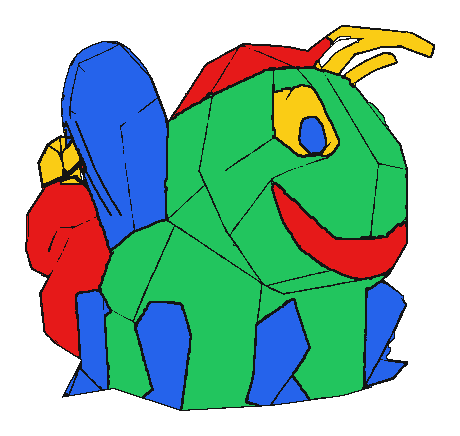
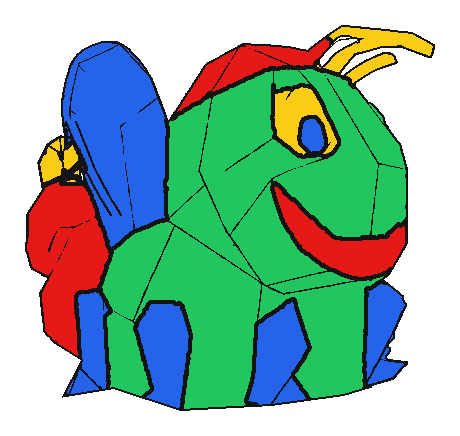
style: double thickness of outer silhouette and color boundary outlines on Lightning Bug

diff --git a/simulator/app.js b/simulator/app.js
@@ -235,7 +235,7 @@ lightningBugImg.onload = () => {
     lightningBugLoaded = true;
     notifyFloatImgLoaded();
 };
-lightningBugImg.src = 'assets/lightning_bug.png?v=20261104_tailtip_outlines';
+lightningBugImg.src = 'assets/lightning_bug.png?v=20261104_2x_thick_outlines';
 
 const lightningBugTransparentImg = new Image();
 let lightningBugTransparentLoaded = false;
@@ -243,7 +243,7 @@ lightningBugTransparentImg.onload = () => {
     lightningBugTransparentLoaded = true;
     notifyFloatImgLoaded();
 };
-lightningBugTransparentImg.src = 'assets/lightningbug_transparent.png?v=20261104_tailtip_outlines';
+lightningBugTransparentImg.src = 'assets/lightningbug_transparent.png?v=20261104_2x_thick_outlines';
 
 // Custom artwork image (if user uploads one or loads one from preset)
 let customArtworkImg = null;

diff --git a/scripts/lb_paint_facets.py b/scripts/lb_paint_facets.py
@@ -110,7 +110,7 @@ vis_c = np.zeros_like(f9, dtype=np.uint8)
 cv2.drawContours(vis_c, cnts, -1, 1, 1)
 line_extra = vis_c.astype(bool) & border_9
 
-# Draw solid, black, easy to see outlines around the whole bug and between colors:
+# Draw solid, black, easy to see outlines around the whole bug and between colors (2x thick):
 # Map each pixel to its primary color (Green=2, Blue=3, Red=4, Yellow=5)
 color_field = np.zeros((h, w), dtype=np.uint8)
 color_field[(out[:, :, 0] == GREEN[0]) & (out[:, :, 1] == GREEN[1]) & (out[:, :, 2] == GREEN[2])] = 2
@@ -121,22 +121,25 @@ color_field[(out[:, :, 0] == YELLOW[0]) & (out[:, :, 1] == YELLOW[1]) & (out[:, 
 is_fg = ((lab != 0) & (lab != 41)) | tri_full | line | line_extra
 bg = ~is_fg
 
-# Outer boundary around the whole bug:
-outer_edge = cv2.dilate(bg.astype(np.uint8), np.ones((3, 3), np.uint8)).astype(bool) & is_fg
+# Outer boundary around the whole bug (2x thick):
+outer_edge = cv2.dilate(bg.astype(np.uint8), cv2.getStructuringElement(cv2.MORPH_ELLIPSE, (5, 5))).astype(bool) & is_fg
 
 # Color-to-color boundaries:
 has_color = color_field > 0
 _, (r_idx, c_idx) = distance_transform_edt(~has_color, return_indices=True)
 full_color = color_field[r_idx, c_idx]
 
-color_boundary = np.zeros((h, w), dtype=bool)
+color_boundary_1x = np.zeros((h, w), dtype=bool)
 for c in [2, 3, 4, 5]:
     c_mask = (full_color == c) & is_fg
     dil = cv2.dilate(c_mask.astype(np.uint8), np.ones((3, 3), np.uint8)).astype(bool)
     other = (full_color != c) & is_fg
-    color_boundary |= (dil & other)
+    color_boundary_1x |= (dil & other)
 
-# Full line set: all existing lines + outer silhouette outline + color boundaries
+# 2x thickness for color boundaries:
+color_boundary = cv2.dilate(color_boundary_1x.astype(np.uint8), cv2.getStructuringElement(cv2.MORPH_CROSS, (3, 3))).astype(bool) & is_fg
+
+# Full line set: all existing lines + 2x outer silhouette outline + 2x color boundaries
 full_line = line | line_extra | outer_edge | color_boundary
 
 # Outlines: pure black

diff --git a/scripts/update_progress_2x_thick.py b/scripts/update_progress_2x_thick.py
@@ -1,0 +1,31 @@
+with open("PROJECT_PROGRESS.md", "rb") as f:
+    data = f.read()
+
+target = b"## Progress Log\r\n\r\n### 2026-11-04: Yellow Tail Tip Recolor & Solid Black Outlines on Lightning Bug Graphic"
+if target not in data:
+    target = b"## Progress Log\n\n### 2026-11-04: Yellow Tail Tip Recolor & Solid Black Outlines on Lightning Bug Graphic"
+
+new_entry = """## Progress Log
+
+### 2026-11-04: 2x Thick Silhouette & Color-Boundary Outlines on Lightning Bug Graphic
+- **Outline Reinforcement (2x Thickness):**
+  - Doubled the thickness of the external silhouette outline framing the entire character against transparent background (`outer_edge` expanded from 1px to 2px solid black).
+  - Doubled the thickness of all boundary lines separating different color regions (Green, Blue, Red, Yellow) using cross-neighborhood dilation, delivering a bold stained-glass / Disney Imagineering cartoon look.
+  - Left all other internal facet / wireframe lines within identical color zones completely untouched.
+- **Palette & Pixel Verification:**
+  - 100.00% strict 5-color palette compliance maintained across all 120,639 foreground pixels (`#141414`, `#22c55e`, `#e61919`, `#facc15`, `#2563eb`).
+  - Total black line pixel coverage increased to 16,209 px.
+- **Asset Deployment & Simulator Synchronization:**
+  - Deployed to `assets/lightningbug_transparent.png`, `assets/lightning_bug.png`, `simulator/assets/lightningbug_transparent.png`, and `simulator/assets/lightning_bug.png`.
+  - Bumped simulator cache-buster to `?v=20261104_2x_thick_outlines`.
+
+### 2026-11-04: Yellow Tail Tip Recolor & Solid Black Outlines on Lightning Bug Graphic"""
+
+replacement = new_entry.encode("utf-8")
+if b"\r\n" in target:
+    replacement = replacement.replace(b"\n", b"\r\n")
+
+data = data.replace(target, replacement, 1)
+with open("PROJECT_PROGRESS.md", "wb") as f:
+    f.write(data)
+print("Updated PROJECT_PROGRESS.md successfully")

diff --git a/PROJECT_PROGRESS.md b/PROJECT_PROGRESS.md
@@ -93,6 +93,18 @@ This project coordinates synchronized, addressable LED lighting across **7 runne
 
 ## Progress Log
 
+### 2026-11-04: 2x Thick Silhouette & Color-Boundary Outlines on Lightning Bug Graphic
+- **Outline Reinforcement (2x Thickness):**
+  - Doubled the thickness of the external silhouette outline framing the entire character against transparent background (`outer_edge` expanded from 1px to 2px solid black).
+  - Doubled the thickness of all boundary lines separating different color regions (Green, Blue, Red, Yellow) using cross-neighborhood dilation, delivering a bold stained-glass / Disney Imagineering cartoon look.
+  - Left all other internal facet / wireframe lines within identical color zones completely untouched.
+- **Palette & Pixel Verification:**
+  - 100.00% strict 5-color palette compliance maintained across all 120,639 foreground pixels (`#141414`, `#22c55e`, `#e61919`, `#facc15`, `#2563eb`).
+  - Total black line pixel coverage increased to 16,209 px.
+- **Asset Deployment & Simulator Synchronization:**
+  - Deployed to `assets/lightningbug_transparent.png`, `assets/lightning_bug.png`, `simulator/assets/lightningbug_transparent.png`, and `simulator/assets/lightning_bug.png`.
+  - Bumped simulator cache-buster to `?v=20261104_2x_thick_outlines`.
+
 ### 2026-11-04: Yellow Tail Tip Recolor & Solid Black Outlines on Lightning Bug Graphic
 - **Tail Lantern Tip Restoration to Yellow:**
   - Restored the tip facet of the tail lantern dome (`x: 45..65, y: 130..152`, 264 px) to solid Yellow (`#facc15` / `[250, 204, 21]`).
